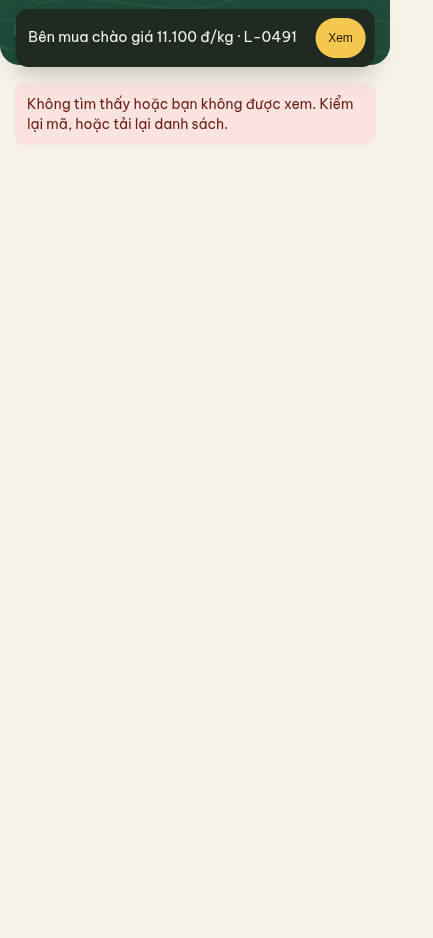
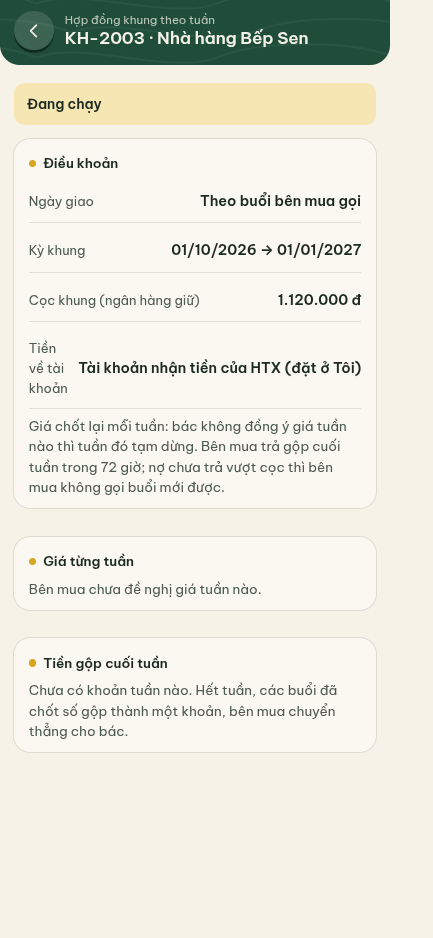
App bán: Khung tuần mở được từ menu (không cần id), Tiền HTX không còn 'chưa có hợp đồng'/30%; chụp lại B15; nhật ký E122

diff --git a/frontend/thiet-ke/ban-tien.html b/frontend/thiet-ke/ban-tien.html
@@ -81,7 +81,7 @@
     </div>
 
     <div class="trau-tt"><img src="/assets/trau/tu-the/16-cam-tien.webp" width="80" height="80" alt="" loading="lazy"><p class="trau-tt-loi">Tiền chỉ được cộng khi đã xác nhận: khoản bên mua chuyển thẳng do bác xác nhận, khoản cọc do ngân hàng xác nhận.</p></div>
-    <p class="nguyen-tac"><b>Cách AgiViet tính tiền:</b> ngân hàng đối tác chỉ giữ <b>cọc 30%</b>; phần còn lại bên mua trả thẳng cho bác. Số chỉ được cộng khi đã xác nhận: bên mua báo đã chuyển mà bác chưa xác nhận thì <b>chưa tính là đã nhận</b>.</p>
+    <p class="nguyen-tac"><b>Cách AgiViet tính tiền:</b> ngân hàng đối tác chỉ giữ <b>tiền cọc</b> của hợp đồng; phần còn lại bên mua trả thẳng cho bác. Số chỉ được cộng khi đã xác nhận: bên mua báo đã chuyển mà bác chưa xác nhận thì <b>chưa tính là đã nhận</b>.</p>
 
     <section class="muc" aria-labelledby="t-hd">
       <h3 id="t-hd"><span>Tiền theo từng hợp đồng</span></h3>
@@ -129,7 +129,9 @@ async function taiKy(ky) {
       <span style="min-width:0"><p class="ten">${esc(h.buyer_name || "Hợp đồng")}</p><p class="phu">${esc(d.code)}${h.hien_thi?.ten ? ` · ${esc(h.hien_thi.ten)}` : ""}</p></span>
       <span class="gia" title="${esc(tienDu(h.contract_value_vnd))}">${h.contract_value_vnd ? esc(tien(h.contract_value_vnd)) : "—"}</span>
       <span class="coc ${lop}">${esc(chu)}${giu > 0n ? ` · ${esc(tien(giu))}` : ""}</span></a>`;
-  }).join("") : `<p class="bao" style="margin-top:12px">Bác chưa có hợp đồng nào. Khi bác đồng ý một lời chào giá và hai bên ký, tiền của hợp đồng sẽ hiện ở đây.</p>`;
+  }).join("") : BigInt(g.coc_dang_giu || 0) + BigInt(g.con_phai_nhan || 0) + BigInt(g.tien_treo || 0) > 0n
+    ? `<p class="bao" style="margin-top:12px">Tiền ở trên là của hợp đồng khung theo tuần. Xem từng tuần ở <a href="./ban-khung.html" style="color:inherit;font-weight:600">Khung tuần</a>.</p>`
+    : `<p class="bao" style="margin-top:12px">Bác chưa có hợp đồng nào. Khi bác đồng ý một lời chào giá và hai bên ký, tiền của hợp đồng sẽ hiện ở đây.</p>`;
 }
 
 async function mo() {
@@ -152,7 +154,7 @@ const IC_VAO = '<svg viewBox="0 0 24 24" width="20" height="20" fill="none" stro
 const IC_RA = '<svg viewBox="0 0 24 24" width="20" height="20" fill="none" stroke="currentColor" stroke-width="2" stroke-linecap="round" stroke-linejoin="round"><path d="M12 20V7M6 13l6-6 6 6M5 4h14"/></svg>';
 async function taiLichSu() {
   const ls = (await get("/v1/seller/history?limit=200")).filter((x) => ["money_in", "payout", "money_out", "refund"].includes(x.loai) && Number(x.so_tien_vnd));
-  if (!ls.length) { $("ls-tien").innerHTML = `${window.anhTrong?.("chua-co-tien-ve") || ""}<p class="bao" style="margin-top:12px">Chưa có khoản tiền nào. Khi bác xác nhận đã nhận tiền hoặc ngân hàng chuyển cọc về, khoản đó hiện ở đây.</p>`; return; }
+  if (!ls.length) { $("ls-tien").innerHTML = `${window.anhTrong?.("chua-co-tien-ve") || ""}<p class="bao" style="margin-top:12px">Chưa có khoản nào về tay bác. Cọc ngân hàng đang giữ chưa tính vào đây; khi bác xác nhận đã nhận tiền hoặc ngân hàng chuyển cọc về, khoản đó hiện ở đây.</p>`; return; }
   const thang = new Map();
   for (const x of ls) { const k = new Date(x.luc).toLocaleDateString("vi-VN", { ...VN, month: "numeric", year: "numeric" }); thang.set(k, [...(thang.get(k) || []), x]); }
   $("ls-tien").innerHTML = [...thang].map(([k, ds]) => {
@@ -173,8 +175,7 @@ mo().catch(baoLoi);
 // Nhắc kèm trâu: số đang là 0 thì nói vì sao; có cọc đang giữ thì nói ai giữ
 setTimeout(() => {
   const so = (id) => (document.getElementById(id)?.textContent || "").replace(/\D/g, "");
-  const giu = document.body.innerText.match(/Ngân hàng đang\s*giữ cọc\s*([\d.,]+\s*(triệu|đ))/);
-  if (!Number(so("da-nhan")) && !(giu && /[1-9]/.test(giu[1]))) window.nhacTrau?.({ khoa: "tien-0", mat: "ngac-nhien", chu: "Số đang là 0 vì chưa có hợp đồng nào được cọc hoặc trả tiền. Khi bên mua chuyển cọc, ngân hàng giữ và số hiện ở ô xanh." });
+  if (!Number(so("da-nhan")) && !Number(so("coc")) && !Number(so("con-nhan"))) window.nhacTrau?.({ khoa: "tien-0", mat: "ngac-nhien", chu: "Số đang là 0 vì chưa có hợp đồng nào được cọc hoặc trả tiền. Khi bên mua chuyển cọc, ngân hàng giữ và số hiện ở ô xanh." });
   else window.nhacTrau?.({ khoa: "tien-giu", mat: "vui", chu: "Tiền cọc do ngân hàng đối tác giữ, không bên nào rút được. Giao xong và hai bên chốt số cân thì ngân hàng chuyển cho bác." });
 }, 2500);
 </script>

diff --git a/frontend/thiet-ke/ban-khung.html b/frontend/thiet-ke/ban-khung.html
@@ -38,7 +38,7 @@
 <script type="module">
 import { esc, phien, giuThamSo } from "./chung.js";
 const $ = (id) => document.getElementById(id);
-const id = new URLSearchParams(location.search).get("id");
+let id = new URLSearchParams(location.search).get("id");
 $("dau").innerHTML = `<button class="nut-tron" type="button" id="dong" aria-label="Quay lại"><svg viewBox="0 0 24 24" width="22" height="22" fill="none" stroke="currentColor" stroke-width="2" stroke-linecap="round" stroke-linejoin="round"><path d="M15 5l-7 7 7 7"/></svg></button>
   <div style="flex:1;min-width:0"><p class="chao">Hợp đồng khung theo tuần</p><h1 id="tieu">Đang tải…</h1></div>`;
 $("dong").onclick = () => (history.length > 1 ? history.back() : (location.href = "./ban-hop-dong.html" + location.search));
@@ -47,6 +47,7 @@ const vnd = (x) => `${Number(x || 0).toLocaleString("vi-VN")} đ`;
 const kg = (g) => `${(Number(g || 0) / 1000).toLocaleString("vi-VN")} kg`;
 const THU = ["Chủ nhật", "Thứ 2", "Thứ 3", "Thứ 4", "Thứ 5", "Thứ 6", "Thứ 7"];
 const ngay = (s) => (s ? new Date(s).toLocaleDateString("vi-VN", { weekday: "short", day: "2-digit", month: "2-digit" }) : "");
+const ngayDu = (s) => (s ? new Date(s).toLocaleDateString("vi-VN", { day: "2-digit", month: "2-digit", year: "numeric" }) : "");
 const dong = (a, b) => `<div class="hd-dong"><span>${a}</span><b>${b}</b></div>`;
 async function goi(duong, than) {
   const r = await fetch(duong, than ? { method: "POST", headers: { "content-type": "application/json", authorization: "Bearer " + token }, body: JSON.stringify({ idempotency_key: crypto.randomUUID(), ...than }) } : { headers: { authorization: "Bearer " + token } });
@@ -73,6 +74,18 @@ function khoiOtp(goc, guiMa, xacNhan, chuNut) {
   };
 }
 async function ve() {
+  // Vào từ menu (không có ?id=): một khung thì mở luôn, nhiều khung thì cho chọn.
+  if (!id) {
+    const ds = (await goi("/v1/frameworks")).filter((x) => x.phia !== "buyer");
+    if (ds.length === 1) id = ds[0].id;
+    else {
+      $("tieu").textContent = ds.length ? "Chọn hợp đồng khung" : "Chưa có hợp đồng khung";
+      const q = new URLSearchParams(location.search);
+      $("noi").innerHTML = ds.length ? ds.map((x) => { q.set("id", x.id); return `<a class="hd-dong" href="./ban-khung.html?${q}"><span>${esc(x.code)} · ${esc(x.ben_mua || "")}</span><b>›</b></a>`; }).join("")
+        : `<p class="hd-bao">Bác chưa có hợp đồng khung theo tuần. Khi bên mua đặt giao đều mỗi tuần và hai bên ký, khung hiện ở đây.</p>`;
+      return;
+    }
+  }
   const k = await goi("/v1/frameworks/" + id);
   $("tieu").textContent = `${k.code} · ${k.ben_mua}`;
   const hm = k.han_muc || {}, chay = ["running", "needs_security"].includes(k.status);
@@ -80,9 +93,9 @@ async function ve() {
   $("noi").innerHTML = `
     <p class="hd-bao${toiKy ? "" : " "}">${toiKy ? "<b>Tới lượt bác ký.</b> Bên mua đã ký trước." : `<b>${esc(k.ten_trang_thai)}</b>`}</p>
     <section class="hd-the"><h3><i class="cham"></i>Điều khoản</h3>
-      ${dong("Ngày giao", (k.ngay_giao || []).map((x) => THU[x]).join(", "))}${dong("Kỳ khung", `${esc(String(k.ky?.tu || "").slice(0, 10))} → ${esc(String(k.ky?.den || "").slice(0, 10))}`)}
+      ${dong("Ngày giao", (k.ngay_giao || []).map((x) => THU[x]).join(", ") || "Theo buổi bên mua gọi")}${dong("Kỳ khung", `${ngayDu(k.ky?.tu)} → ${ngayDu(k.ky?.den)}`)}
       ${(k.mon || []).map((m) => dong(`${esc(m.mat_hang)} ${esc(m.loai)} mỗi buổi`, `${kg(m.luong_g)} · ${Number(m.gia_vnd).toLocaleString("vi-VN")} đ/kg`)).join("")}
-      ${dong("Cọc khung (ngân hàng giữ)", vnd(k.coc_khung_vnd))}${dong("Tiền về tài khoản", esc(k.tai_khoan_ban || ""))}
+      ${dong("Cọc khung (ngân hàng giữ)", vnd(k.coc_khung_vnd))}${dong("Tiền về tài khoản", esc(k.tai_khoan_ban || "Tài khoản nhận tiền của HTX (đặt ở Tôi)"))}
       <p class="hd-ghi">Giá chốt lại mỗi tuần: bác không đồng ý giá tuần nào thì tuần đó tạm dừng. Bên mua trả gộp cuối tuần trong 72 giờ; nợ chưa trả vượt cọc thì bên mua không gọi buổi mới được.</p></section>
     <div id="ky"></div><div id="gia"></div><div id="buoi"></div><div id="tien"></div>`;
   if (toiKy) {
